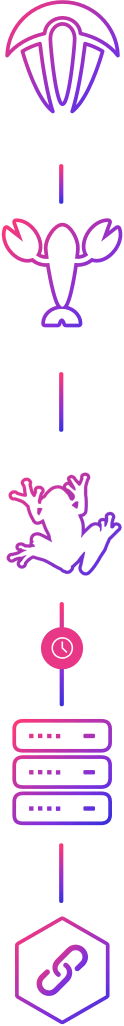
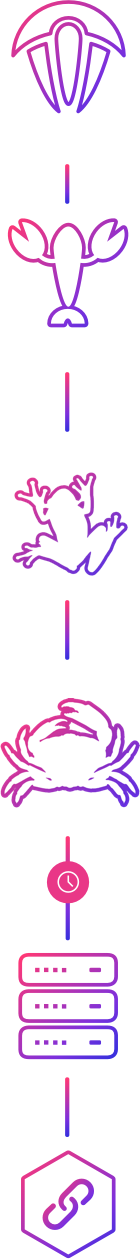
update roadmap

Changed region(s): [[0.0, 0.0, 1.0, 1.0]]

diff --git a/src/page/Home/index.js b/src/page/Home/index.js
@@ -412,16 +412,20 @@ class Home extends Component {
                                             <p>2019-07</p>
                                             <p>Launched</p>
                                         </Col>
-                                        <Col>
+                                        <Col className={styles.crayfishCol}>
                                             <p>2019-09</p>
                                             <p></p>
                                         </Col>
-                                        <Col className={styles.nftCol}>
-                                            <p>2019-12</p>
+                                        <Col className={styles.icefrogCol}>
+                                            <p>2019-11</p>
+                                            <p></p>
+                                        </Col>
+                                        <Col className={styles.crabCol}>
+                                            <p>2020-Q1</p>
                                             <p></p>
                                         </Col>
                                         <Col className={styles.mainnetCol}>
-                                            <p>2020-Q1</p>
+                                            <p>2020-Q2</p>
                                             <p></p>
                                         </Col>
                                         <Col className={styles.lastCol}>
@@ -439,21 +443,25 @@ class Home extends Component {
                                             <p>{t('home_page:roadmap_1_name')}</p>
                                             <p>{t('home_page:roadmap_1_milestone')}</p>
                                         </div>
-                                        <div xs={12}>
+                                        <div xs={12} className={styles.crayfishCol}>
                                             <p>{t('home_page:roadmap_2_name')}</p>
                                             <p>{t('home_page:roadmap_2_milestone')}</p>
                                         </div>
-                                        <div xs={12} className={styles.nftCol}>
+                                        <div xs={12} className={styles.icefrogCol}>
                                             <p>{t('home_page:roadmap_3_name')}</p>
                                             <p>{t('home_page:roadmap_3_milestone')}</p>
                                         </div>
-                                        <div xs={12} className={styles.mainnetCol}>
+                                        <div xs={12} className={styles.crabCol}>
                                             <p>{t('home_page:roadmap_4_name')}</p>
                                             <p>{t('home_page:roadmap_4_milestone')}</p>
                                         </div>
-                                        <div xs={12} className={styles.lastCol}>
+                                        <div xs={12} className={styles.mainnetCol}>
                                             <p>{t('home_page:roadmap_5_name')}</p>
                                             <p>{t('home_page:roadmap_5_milestone')}</p>
+                                        </div>
+                                        <div xs={12} className={styles.lastCol}>
+                                            <p>{t('home_page:roadmap_6_name')}</p>
+                                            <p>{t('home_page:roadmap_6_milestone')}</p>
                                         </div>
                                     </div>
                                 </Col>
@@ -470,11 +478,15 @@ class Home extends Component {
                                     <p></p>
                                 </Col>
                                 <Col>
-                                    <p>2019-12</p>
+                                    <p>2019-11</p>
+                                    <p></p>
+                                </Col>
+                                <Col>
+                                    <p>2020-Q1</p>
                                     <p></p>
                                 </Col>
                                 <Col className={styles.mainnetCol}>
-                                    <p>2020-Q1</p>
+                                    <p>2020-Q2</p>
                                     <p></p>
                                 </Col>
                                 <Col className={styles.lastCol}>
@@ -496,13 +508,17 @@ class Home extends Component {
                                     <p>{t('home_page:roadmap_3_name')}</p>
                                     <p>{t('home_page:roadmap_3_milestone')}</p>
                                 </Col>
-                                <Col className={styles.mainnetCol}>
+                                <Col>
                                     <p>{t('home_page:roadmap_4_name')}</p>
                                     <p>{t('home_page:roadmap_4_milestone')}</p>
                                 </Col>
-                                <Col className={styles.lastCol}>
+                                <Col className={styles.mainnetCol}>
                                     <p>{t('home_page:roadmap_5_name')}</p>
                                     <p>{t('home_page:roadmap_5_milestone')}</p>
+                                </Col>
+                                <Col className={styles.lastCol}>
+                                    <p>{t('home_page:roadmap_6_name')}</p>
+                                    <p>{t('home_page:roadmap_6_milestone')}</p>
                                 </Col>
                             </Row>
                             <div className={`text-center`}>

diff --git a/src/page/Home/style.module.scss b/src/page/Home/style.module.scss
@@ -170,7 +170,7 @@
   }
 
   img {
-    width: 88%;
+    width: 92%;
   }
   .label {
     margin-left: 5px;
@@ -192,7 +192,7 @@
     margin-right: 1%;
   }
   .mainnetCol {
-    margin-left: 2%;
+    margin-left: 1%;
   }
   .lastCol{
     padding-right: 5px;
@@ -371,11 +371,17 @@
       margin: 4% 0;
       margin-bottom: 6%;
     }
-    .crayfishCol{
-      margin: 40px 0 0;
+    .crayfishCol {
+      margin-top: 10px;
+    }
+    .icefrogCol{
+      margin: 30px 0 0;
+    }
+    .crabCol {
+      margin: 30px 0 0;
     }
     .nftCol, .mainnetCol {
-      margin-top: 40px;
+      margin-top: 30px;
       margin-left: 0;
     }
     .lastCol{
